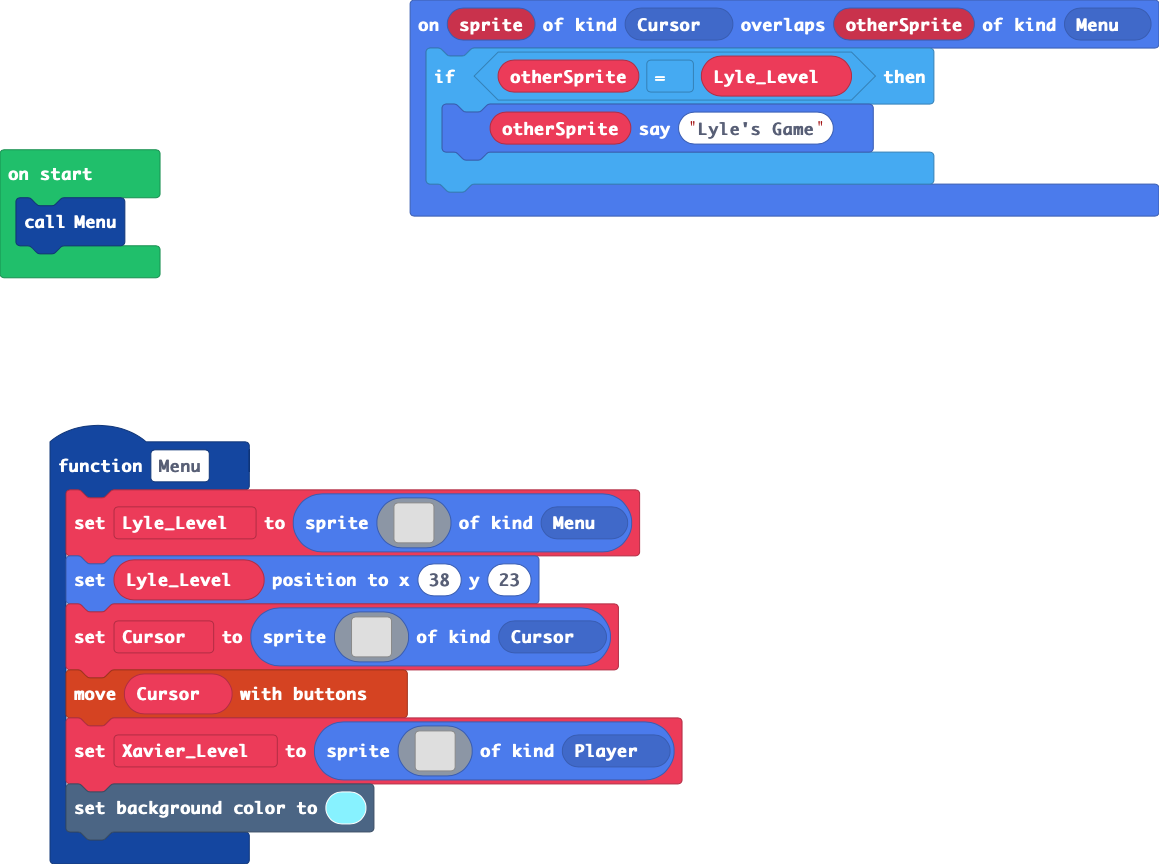
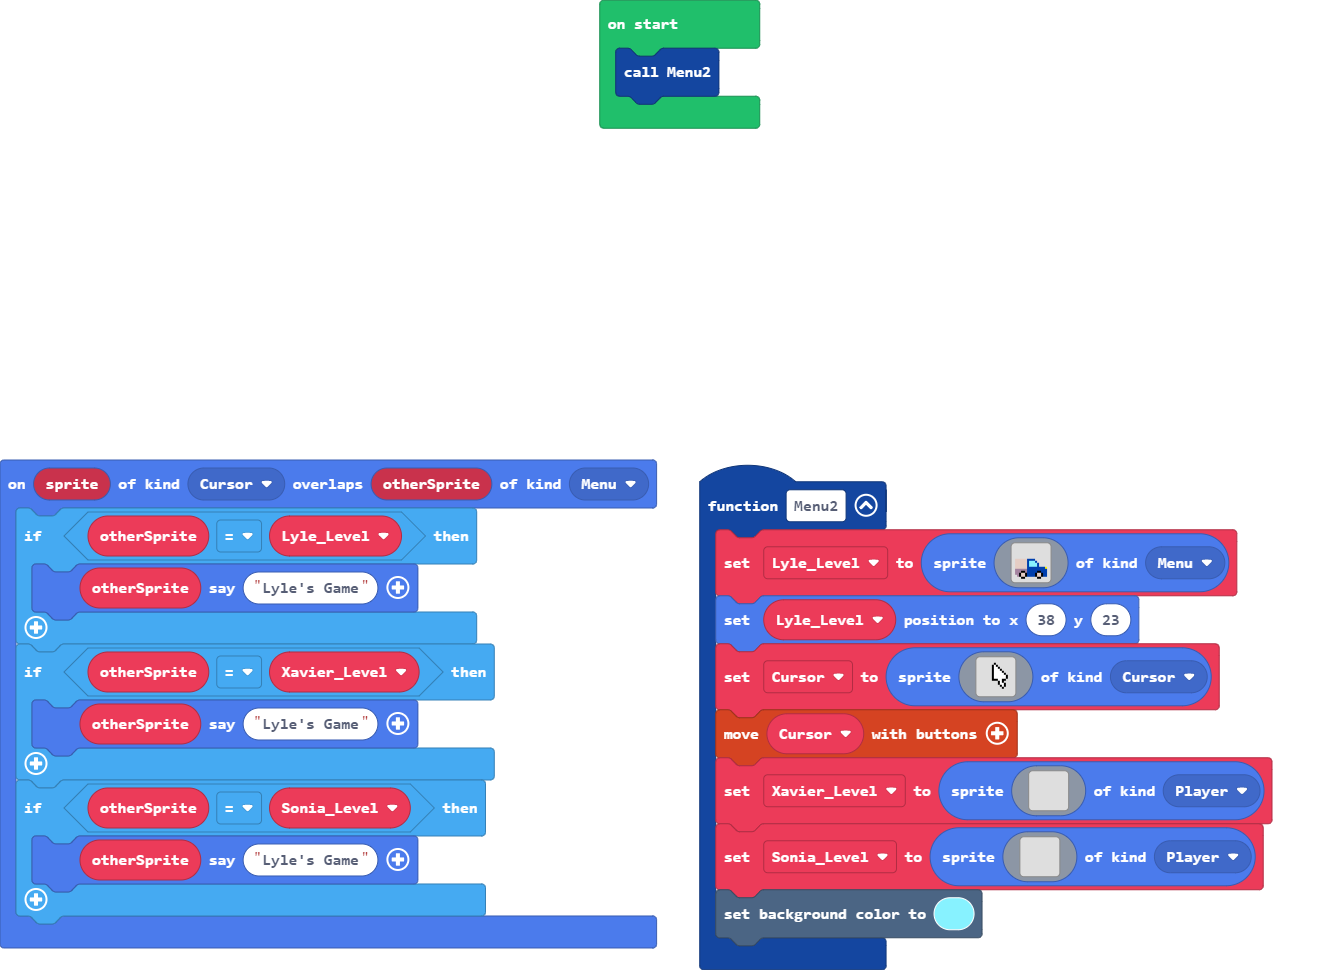
Update main.blocks, main.ts

diff --git a/main.ts b/main.ts
@@ -2,12 +2,7 @@ namespace SpriteKind {
     export const Cursor = SpriteKind.create()
     export const Menu = SpriteKind.create()
 }
-sprites.onOverlap(SpriteKind.Cursor, SpriteKind.Menu, function (sprite, otherSprite) {
-    if (otherSprite == Lyle_Level) {
-        otherSprite.say("Lyle's Game")
-    }
-})
-function Menu () {
+function Menu2 () {
     Lyle_Level = sprites.create(img`
         . . . . . . . . . . . . . . . . 
         . . . . . . . . . . . . . . . . 
@@ -64,9 +59,39 @@ function Menu () {
         . . . . . . . . . . . . . . . . 
         . . . . . . . . . . . . . . . . 
         `, SpriteKind.Player)
+    Sonia_Level = sprites.create(img`
+        . . . . . . . . . . . . . . . . 
+        . . . . . . . . . . . . . . . . 
+        . . . . . . . . . . . . . . . . 
+        . . . . . . . . . . . . . . . . 
+        . . . . . . . . . . . . . . . . 
+        . . . . . . . . . . . . . . . . 
+        . . . . . . . . . . . . . . . . 
+        . . . . . . . . . . . . . . . . 
+        . . . . . . . . . . . . . . . . 
+        . . . . . . . . . . . . . . . . 
+        . . . . . . . . . . . . . . . . 
+        . . . . . . . . . . . . . . . . 
+        . . . . . . . . . . . . . . . . 
+        . . . . . . . . . . . . . . . . 
+        . . . . . . . . . . . . . . . . 
+        . . . . . . . . . . . . . . . . 
+        `, SpriteKind.Player)
     scene.setBackgroundColor(9)
 }
+sprites.onOverlap(SpriteKind.Cursor, SpriteKind.Menu, function (sprite, otherSprite) {
+    if (otherSprite == Lyle_Level) {
+        otherSprite.say("Lyle's Game")
+    }
+    if (otherSprite == Xavier_Level) {
+        otherSprite.say("Lyle's Game")
+    }
+    if (otherSprite == Sonia_Level) {
+        otherSprite.say("Lyle's Game")
+    }
+})
+let Sonia_Level: Sprite = null
 let Xavier_Level: Sprite = null
 let Cursor: Sprite = null
 let Lyle_Level: Sprite = null
-Menu()
+Menu2()
